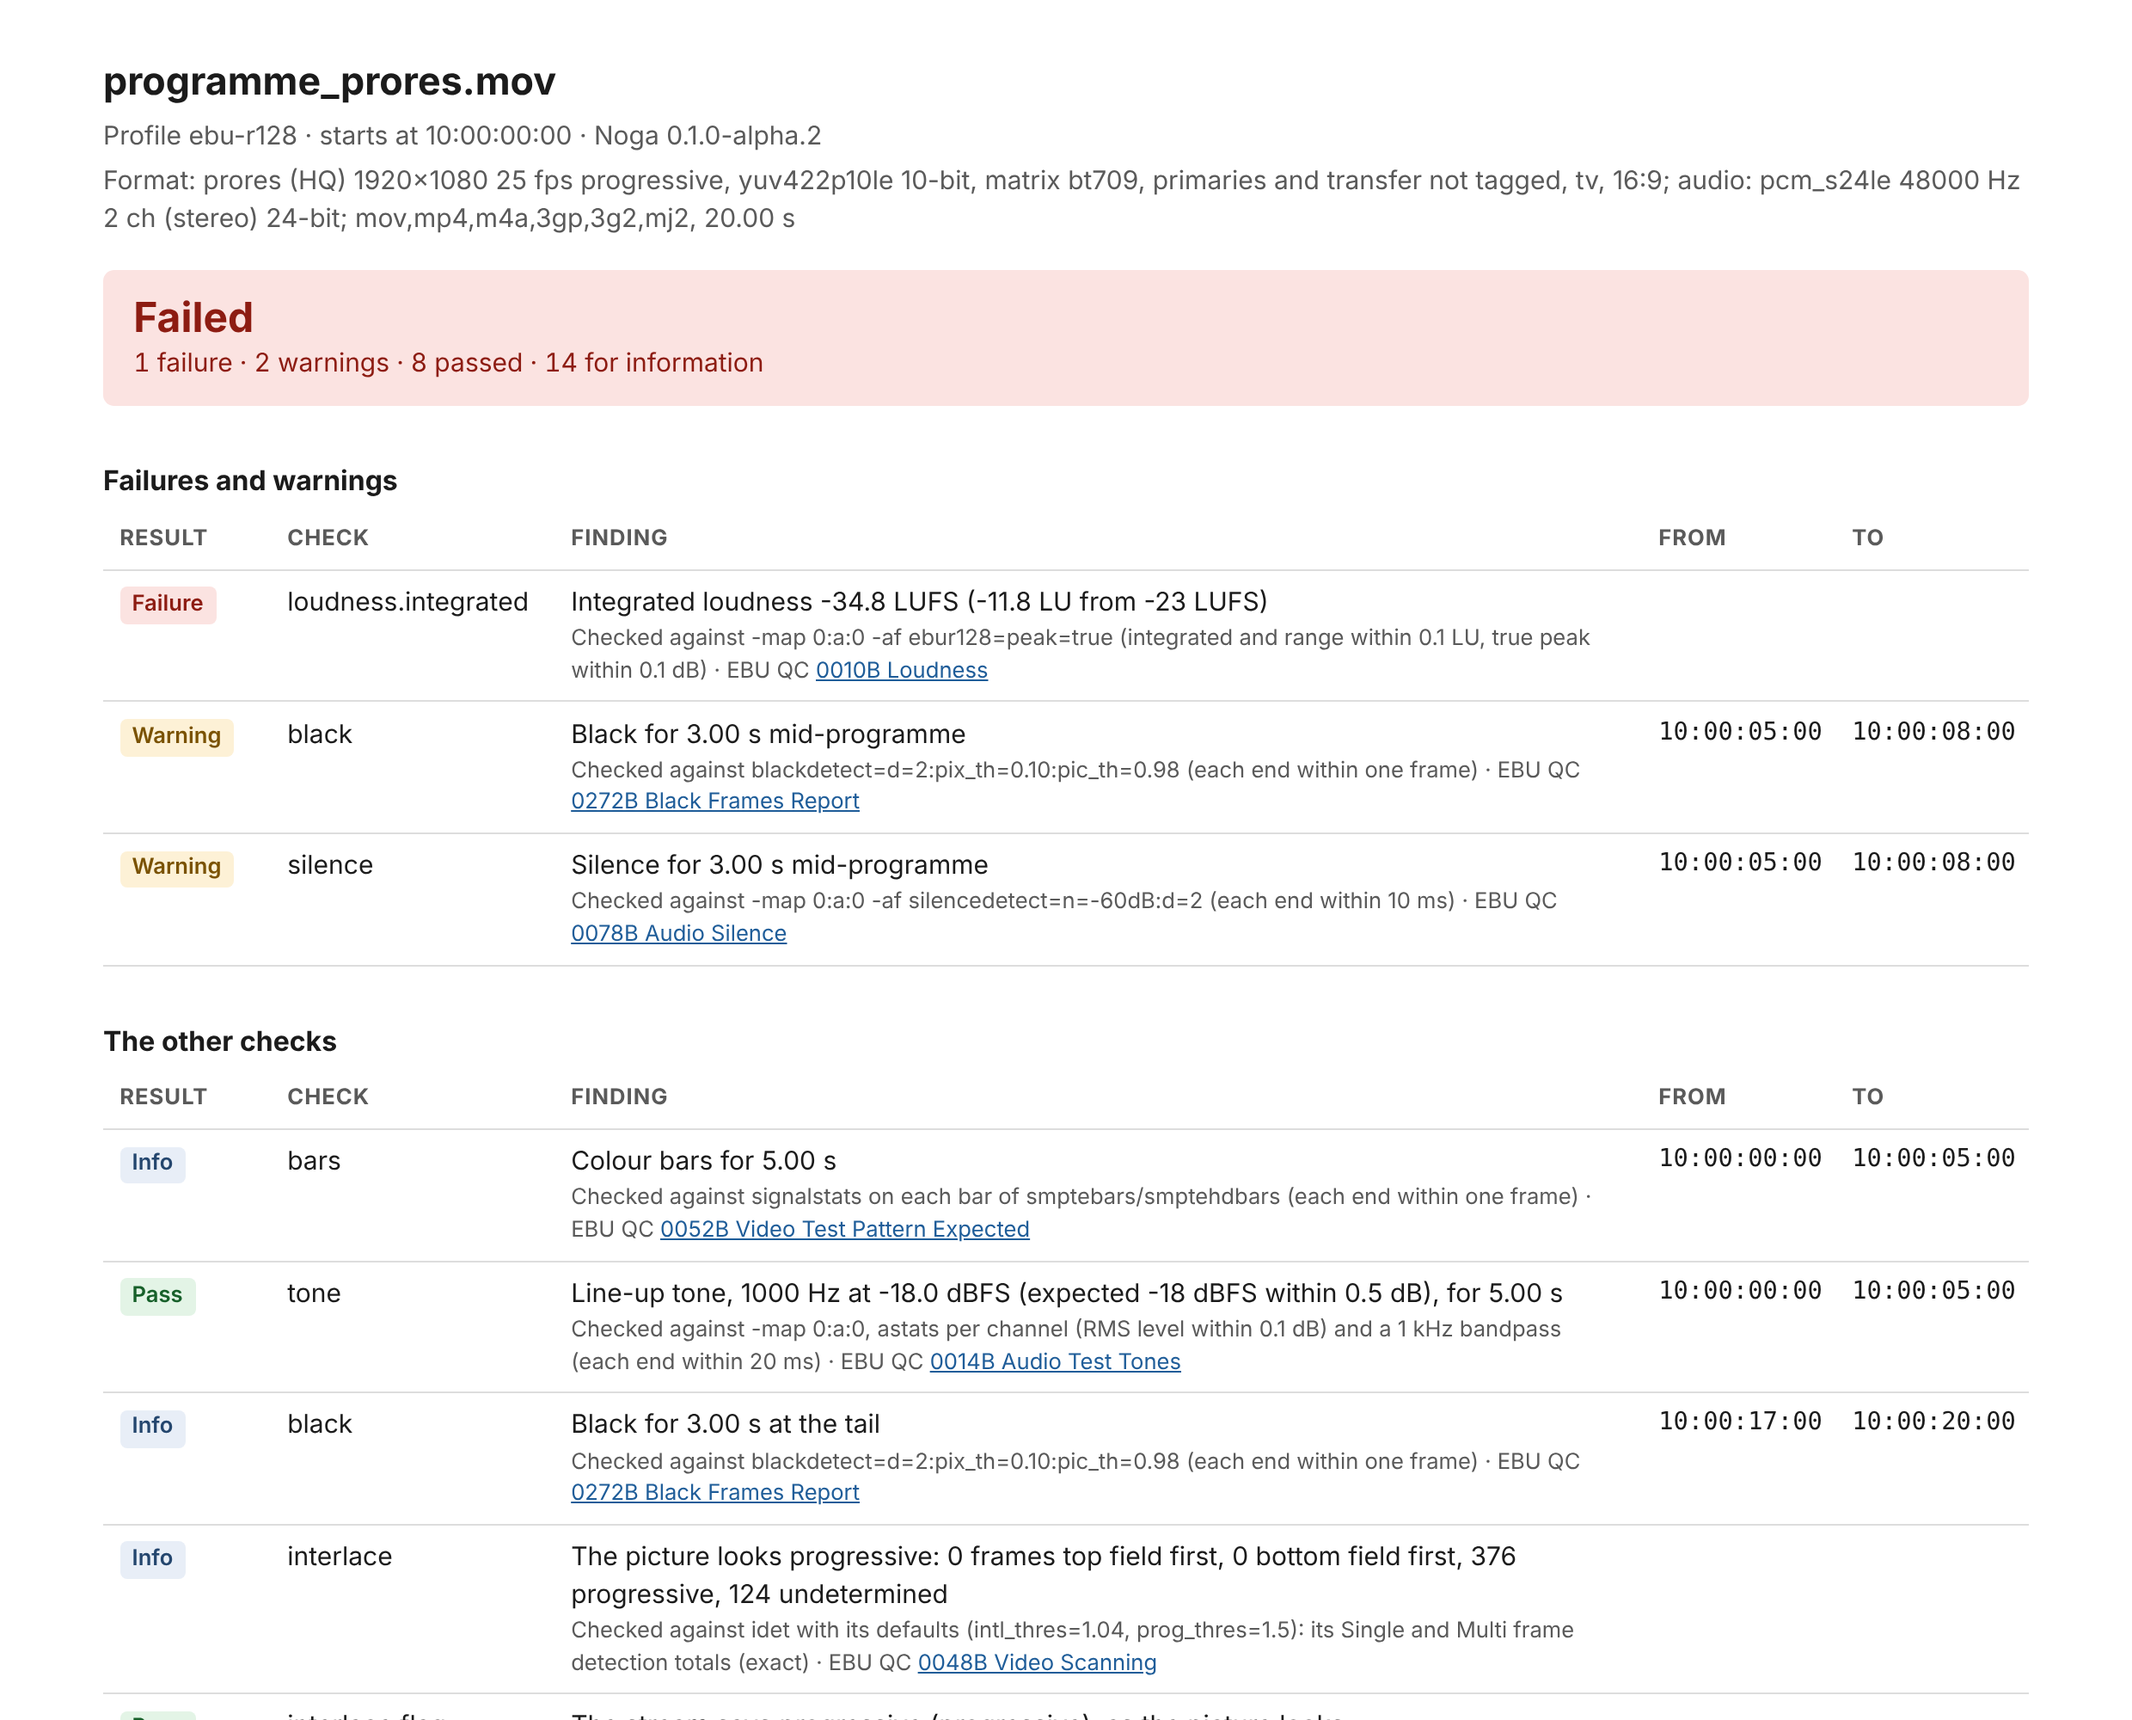
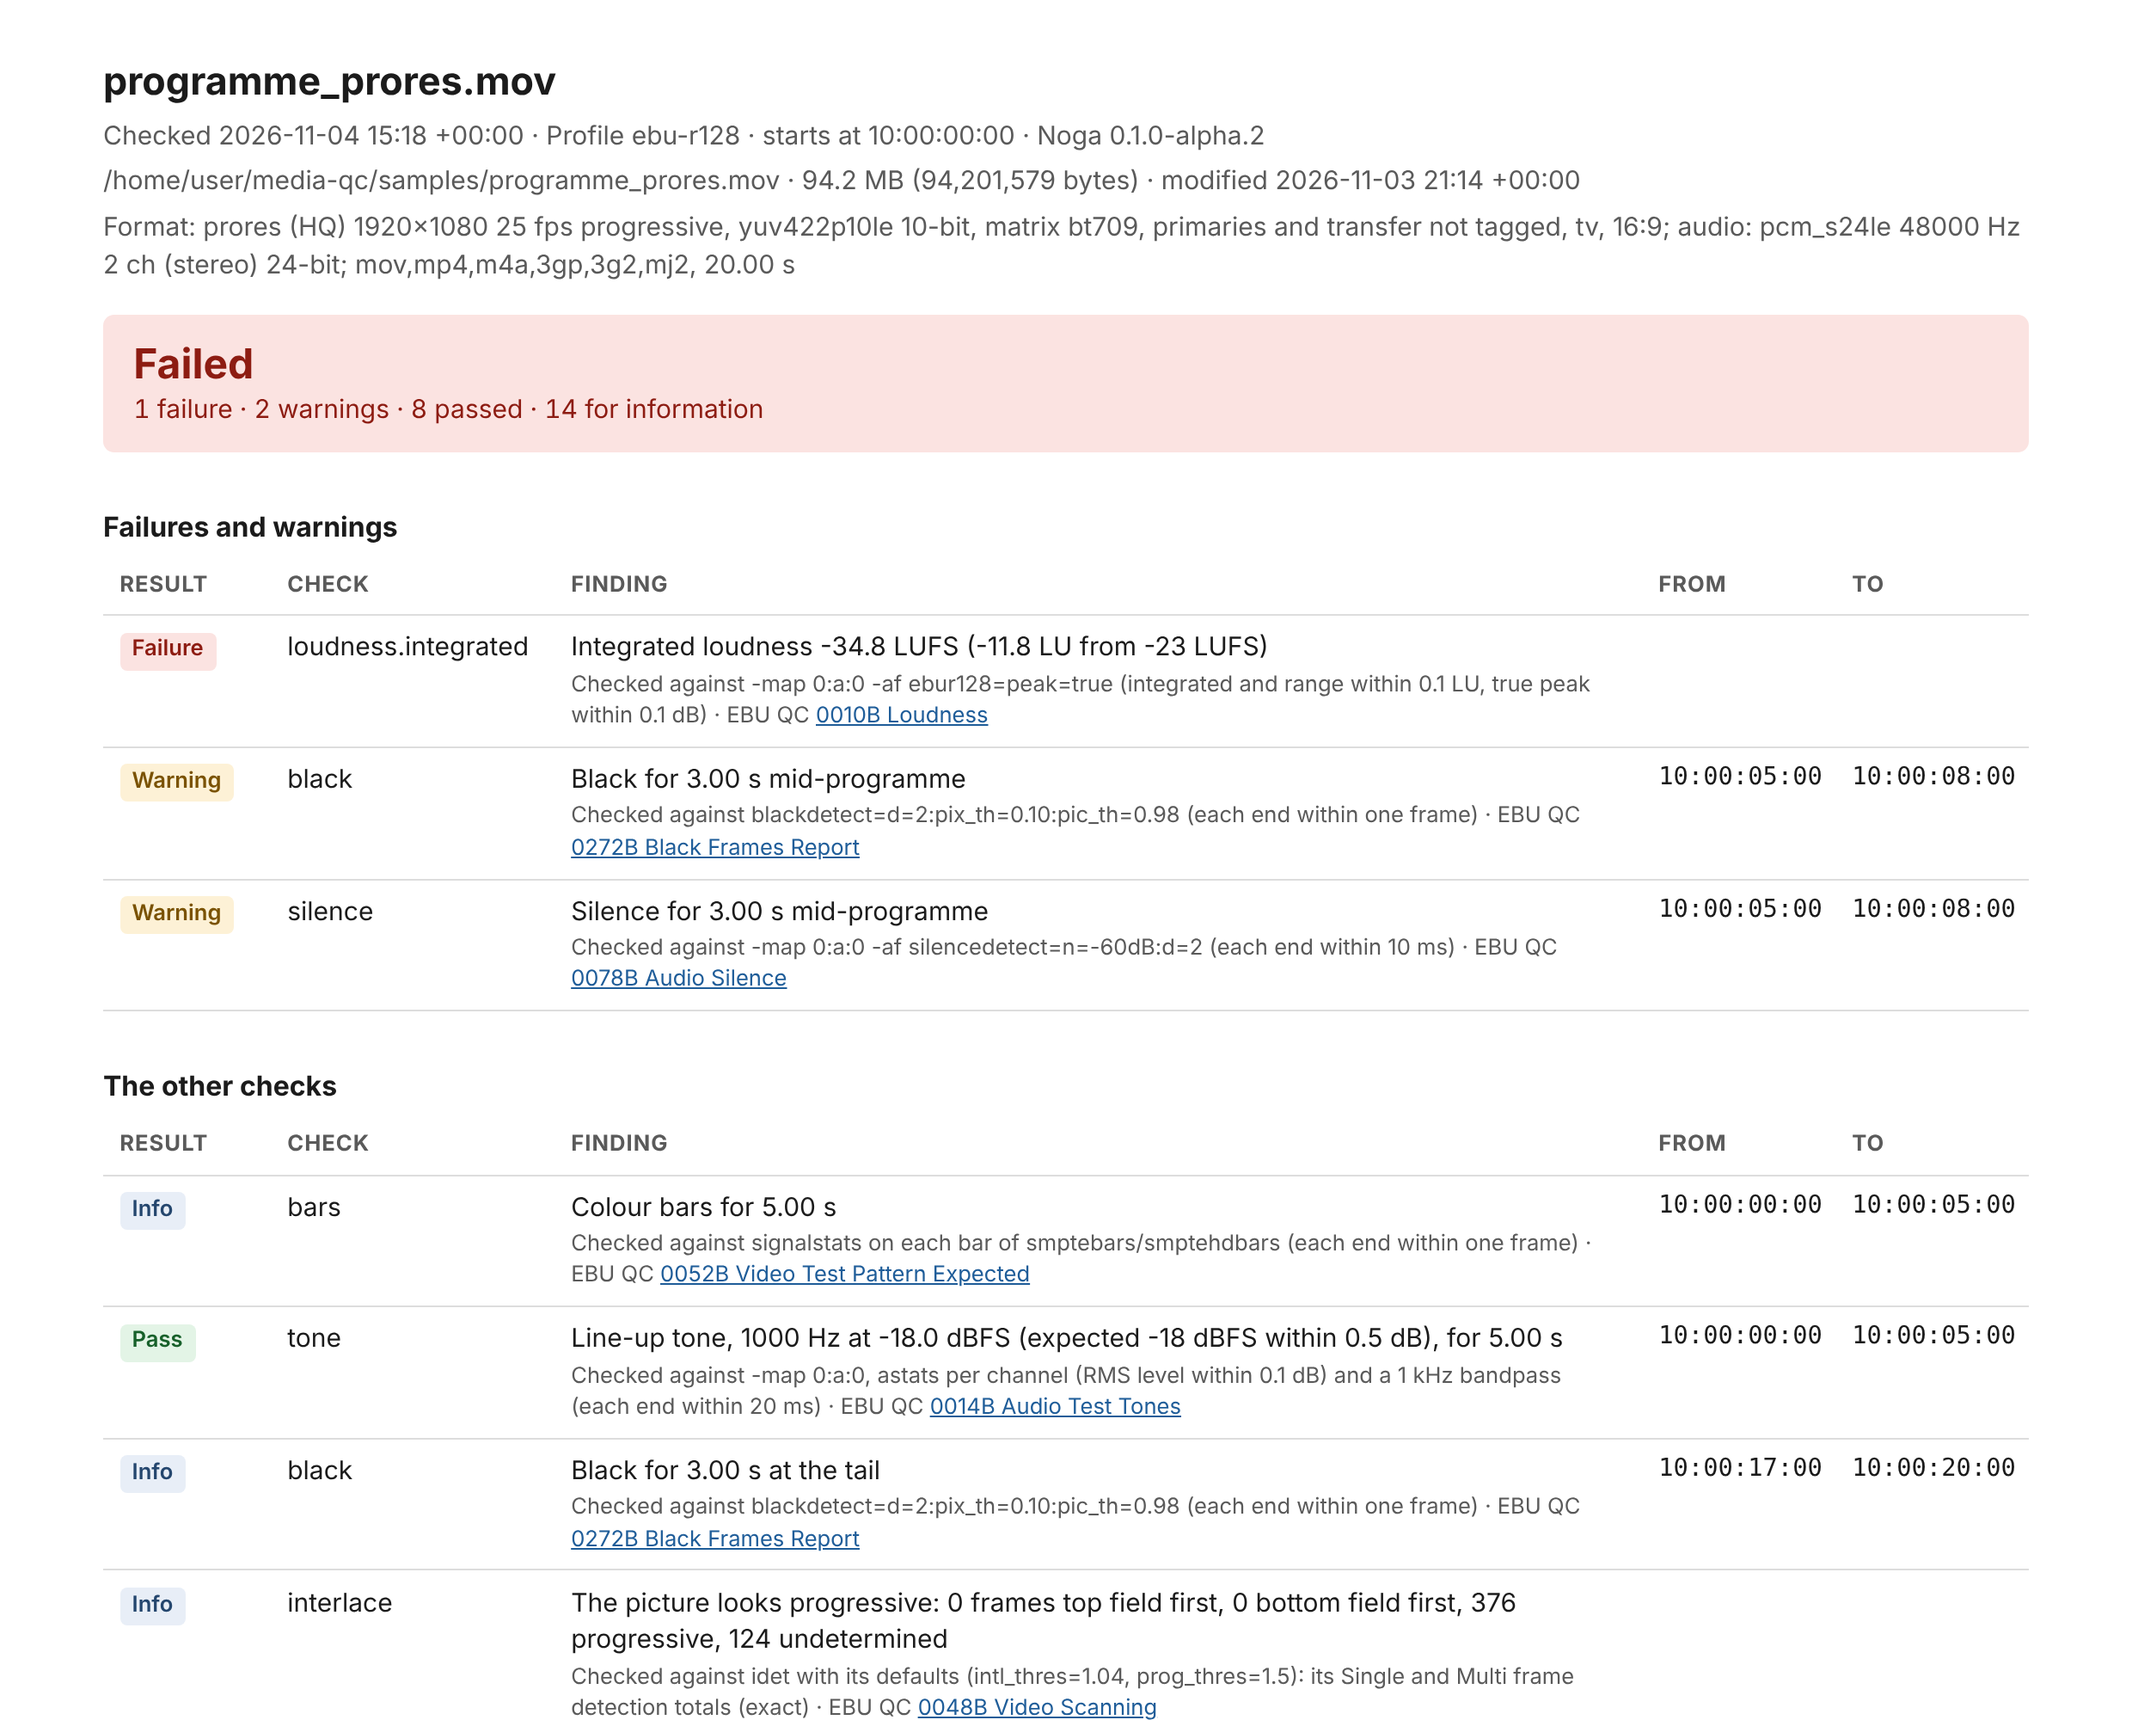
Checked file: decision, backlog, CLAUDE.md, README example
Claude-Session: https://claude.ai/code/session_015S5PSMNnZM1TYzSRVFoa1F

diff --git a/docs/example/programme_prores.mov.qc.html b/docs/example/programme_prores.mov.qc.html
@@ -62,7 +62,8 @@ summary .against { display: inline; margin-left: .4rem; font-weight: normal; }
 <body>
 <header>
 <h1>programme_prores.mov</h1>
-<p class="meta">Profile ebu-r128 · starts at 10:00:00:00 · Noga 0.1.0-alpha.2</p>
+<p class="meta">Checked 2026-11-04 15:18 +00:00 · Profile ebu-r128 · starts at 10:00:00:00 · Noga 0.1.0-alpha.2</p>
+<p class="meta">/home/user/media-qc/samples/programme_prores.mov · 94.2 MB (94,201,579 bytes) · modified 2026-11-03 21:14 +00:00</p>
 <p class="format" title="ffprobe -show_format -show_streams (exact)">Format: prores (HQ) 1920x1080 25 fps progressive, yuv422p10le 10-bit, matrix bt709, primaries and transfer not tagged, tv, 16:9; audio: pcm_s24le 48000 Hz 2 ch (stereo) 24-bit; mov,mp4,m4a,3gp,3g2,mj2, 20.00 s</p>
 <div class="verdict failure"><strong>Failed</strong><span>1 failure · 2 warnings · 8 passed · 14 for information</span></div>
 </header>

diff --git a/CLAUDE.md b/CLAUDE.md
@@ -88,7 +88,7 @@ What is next, in order: docs/backlog.md.
   from `packaging/profiles/`), `MediaFormat` (the file's format, ffprobe's values: container, video, every audio
   track, duration; reported always; `VideoFormat.Colour` says the colour tags in words, untagged ones as such: decisions/2026-11-04-raw-values.md) and `FormatSpec` (a profile's `Format`: what the delivery asks for, each value a
   pass or a failure; decisions/2026-11-03-delivery-format.md), `QcReport`/`Finding` (severity, message, value, positions, what it is checked
-  against, its EBU QC item: `EbuQcItem.For`, decisions/2026-11-01-ebu-qc-items.md; `ExitCode`; `Reason`, the first failure or warning for a job's row: decisions/2026-11-04-job-rows.md), `Timecode` (SMPTE from the file's start timecode, drop-frame at 29.97/59.94), `ReportJson`
+  against, its EBU QC item: `EbuQcItem.For`, decisions/2026-11-01-ebu-qc-items.md; `ExitCode`; `Reason`, the first failure or warning for a job's row: decisions/2026-11-04-job-rows.md; `Source`, a `CheckedFile`: the full path, size, modified time and when checked, set by `Checker.Run`, in both reports: decisions/2026-11-04-checked-file.md), `Timecode` (SMPTE from the file's start timecode, drop-frame at 29.97/59.94), `ReportJson`
   (the JSON report, source-generated), `ReportHtml` (the HTML report, one self-contained page: the verdict with counts, the failures and warnings first, the format in the header, the shots folded; phone, dark and print: decisions/2026-11-04-report-layout.md), `StatusStyle` (a file's `Status` and each severity: one label and one tinted colour, light and dark, for the report, `noga serve`'s page, the app and the command line; each at least WCAG AA: decisions/2026-11-04-status-style.md), `Product` (name and
   version). `Measurements.NotMeasured` lists the checks a decoder path doesn't measure yet, which the report says.
   `TimecodeTag.Pick`: the start timecode in ffprobe's JSON. `AudioTrack.All`: every audio track (ffmpeg's 0:a:N);

diff --git a/docs/decisions/2026-11-04-checked-file.md b/docs/decisions/2026-11-04-checked-file.md
@@ -1,0 +1,26 @@
+# Which file a report is of, and when it was checked
+
+Asked 2026-11-04, the second of the second UI/UX review's top five (decisions/2026-11-04-rows-in-place.md): the
+report and the JSON said neither when the file was checked nor which file exactly, so a report passed on to a
+broadcaster couldn't show which version of a delivery it covers.
+
+## What identifies the file
+
+- **The check's date, the full path, the size and the modified time** (recommended): costs nothing, and answers
+  "which version did you check?" in practice
+- Those and a checksum (MD5 or SHA-256 of the whole file): proof of the exact bytes, but a second read of the file,
+  about a minute more for a 60-minute ProRes HQ master (~70 GB)
+- Skip this item
+
+**Answer: the check's date, the full path, the size and the modified time.**
+
+## What was built
+
+- `CheckedFile` (Noga.Core): the full path, the size in bytes and the modified time as the check finds the file before
+  reading it, and when the check started; `QcReport.Source`, set by `Checker.Run` for the command line, the web UI
+  and the app alike (null for a report made from measures alone, as in tests).
+- The HTML report's header: "Checked 2026-11-04 14:32 +01:00 · Profile ebu-r128 · ...", then a line with the path,
+  the size ("94.2 MB (94,201,579 bytes)") and "modified 2026-11-04 08:32 +01:00", times in the checking machine's
+  zone with its offset.
+- The JSON report: `path`, `size` (bytes), `modified` and `checked` (ISO 8601 with the offset) at the top level.
+- The README's example report and its screenshot are redone.

diff --git a/docs/backlog-done.md b/docs/backlog-done.md
@@ -218,3 +218,8 @@ Finished items from [backlog.md](backlog.md), oldest first.
   - Why: the same review: the drop zone always takes room and doesn't highlight on drag-over; at a narrow width the
     hint is cut mid-word and file names clip without an ellipsis
   - Status: Done (2026-11-04: decisions/2026-11-04-app-drop-zone.md)
+
+- The report and the JSON say when the file was checked and which file it was
+  - Why: the second UI/UX review (decisions/2026-11-04-rows-in-place.md): a report passed on to a broadcaster can't
+    show which version of the file it covers: no check date, full path, size or modification time
+  - Status: Done (2026-11-04: `CheckedFile`, decisions/2026-11-04-checked-file.md)

diff --git a/docs/backlog.md b/docs/backlog.md
@@ -10,11 +10,6 @@ Status: **Open**, **In progress**, **Waiting**, **Maybe**; finished (in backlog-
 
 ## Next
 
-- The report and the JSON say when the file was checked and which file it was
-  - Why: the second UI/UX review (decisions/2026-11-04-rows-in-place.md): a report passed on to a broadcaster can't
-    show which version of the file it covers: no check date, full path, size or modification time
-  - Status: Open
-
 - A long check's progress in the web UI and the app
   - Why: the same review: a 60-minute ProRes master shows "measuring N s" for about 17 minutes, nothing more
   - Status: Open
